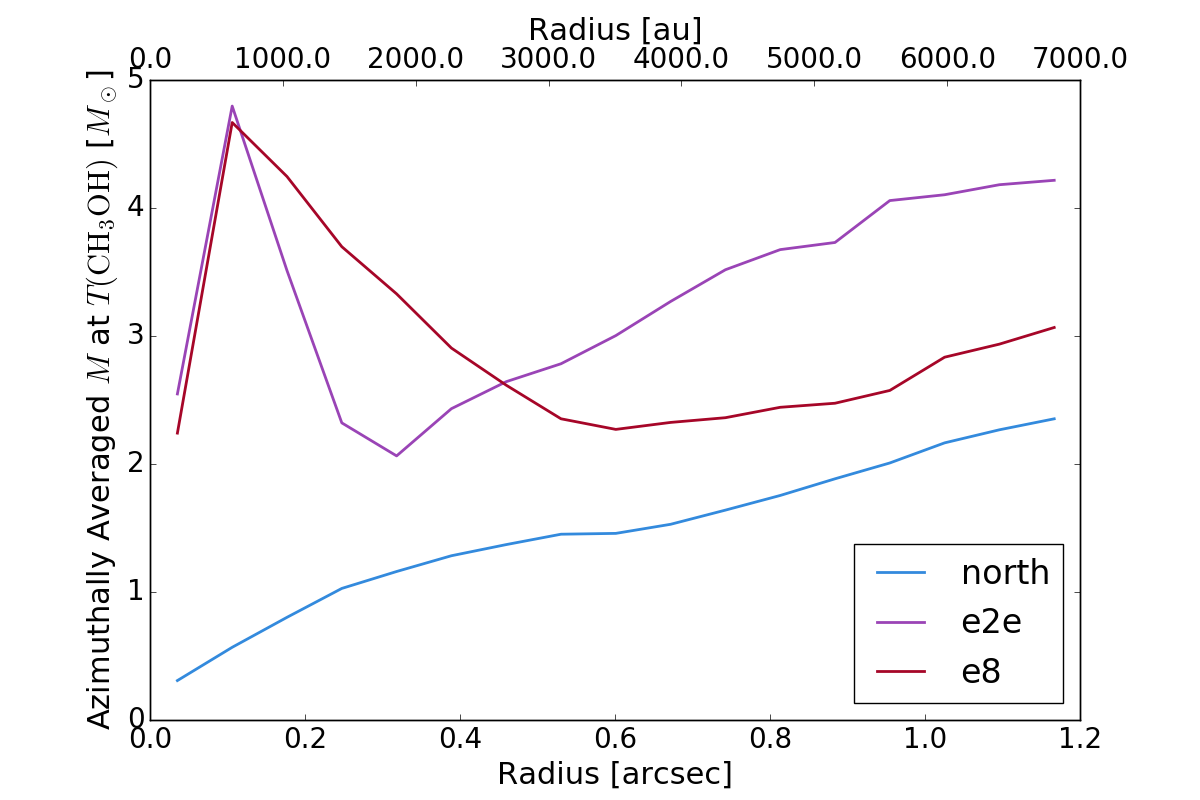
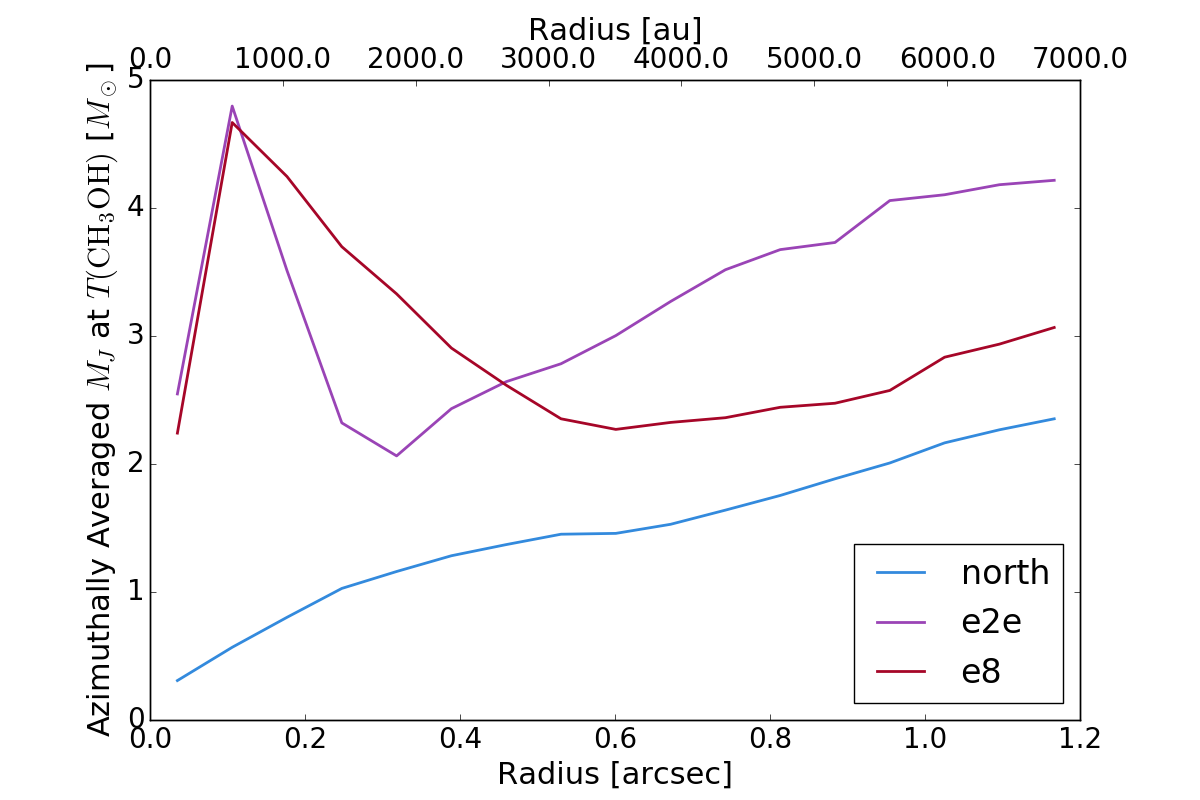
replacement figure for Jeans analysis

Changed region(s): [[0.0617, 0.125, 0.0925, 0.9375], [0.0617, 0.0625, 0.0925, 0.0938]]

diff --git a/analysis/radial_profiles.py b/analysis/radial_profiles.py
@@ -138,7 +138,7 @@ def make_rprof(regions, ploteach=False):
         nplots = 0
 
     pl.matplotlib.rc_file('pubfiguresrc')
-    for jj in range(nplots*3+1, nplots*3+14+1):
+    for jj in range(nplots*3+1, nplots*3+15+1):
         pl.figure(jj).clf()
     # $ find ~/work/w51/alma/FITS/ -samefile ~/work/w51/alma/FITS/W51_te_continuum_best.fits
     # /Users/adam/work/w51/alma/FITS//12m/continuum/selfcal_allspw_selfcal_3_mfs_deeper.image.pbcor.fits
@@ -399,30 +399,40 @@ def make_rprof(regions, ploteach=False):
         mass_map = (cutout.data * masscalc.mass_conversion_factor(TK=temcutout.data) ).to(u.M_sun)
         yy,xx = np.indices(cutout.data.shape)
         rr_map = ((xx-cutout.data.shape[1]/2.)**2 + (yy-cutout.data.shape[0]/2.)**2)
-        mass_profile = (cumul_rprof * masscalc.mass_conversion_factor(TK=tem_rprof) / u.beam).to(u.M_sun)
+        mass_profile = (cumul_rprof *
+                        masscalc.mass_conversion_factor(TK=tem_rprof) /
+                        u.beam).to(u.M_sun)
         density_profile = (mass_profile / (4/3.*np.pi*radii**3) /
                            (2.8*u.Da)).to(u.cm**-3)
 
-        azimuthal_average_mass = azimuthal_average_flux * masscalc.mass_conversion_factor(TK=tem_rprof) / u.beam
+        azimuthal_average_mass = (azimuthal_average_flux *
+                                  masscalc.mass_conversion_factor(TK=tem_rprof)
+                                  / u.beam)
 
         # how accurate is this?  We are measuring mass in cylindrical annuli,
         # but we are assuming the underlying source structure is spherical
         # See Cores.ipynb (in notes/, not in this repo) for a detailed
         # analysis...
         azimuthal_average_density = (azimuthal_average_mass * sqdiffbins_pix /
-                                    (2.8*u.Da) /
-                                    (4/3.*np.pi*(cudiffbins_cm))).to(u.cm**-3)
+                                     (2.8*u.Da) /
+                                     (4/3.*np.pi*(cudiffbins_cm))).to(u.cm**-3)
 
 
         # this is not a good approximation for the spherial density profile...
         # see cores.ipynb.
         # Really should be this number +1 (so see the +1 below)
         # Also, negatived...
-        density_alpha = 1-((np.log(density_profile[1:].value) -
-                            np.log(density_profile[:-1].value)) /
-                           (np.log(angular_radii[1:]) -
-                            np.log(angular_radii[:-1]))
-                          )
+        density_alpha_ = 1-((np.log(density_profile[1:].value) -
+                             np.log(density_profile[:-1].value)) /
+                            (np.log(angular_radii[1:]) -
+                             np.log(angular_radii[:-1]))
+                           )
+        # from cores.ipynb, this actually gets (close to) the right answer
+        density_alpha = -((np.log(azimuthal_average_density[1:].value) -
+                           np.log(azimuthal_average_density[:-1].value)) /
+                          (np.log(angular_radii[1:]) -
+                           np.log(angular_radii[:-1]))
+                         )
 
         c_s = ((constants.k_B * tem_rprof*u.K / (2.4*u.Da))**0.5).to(u.km/u.s)
         azimuthal_average_MJ = (np.pi/6. * c_s**3 /
@@ -449,7 +459,7 @@ def make_rprof(regions, ploteach=False):
         # WRONG         alpha=0.75, color=line.get_color())
         #pl.plot(rr_map*pixscale*3600., mass_map, 'k.', alpha=0.25)
         pl.axis([0,1.2,0.0,5.0])
-        pl.ylabel("Azimuthally Averaged $M$ at $T(\\mathrm{CH}_3\\mathrm{OH})$ [$M_\\odot$]")
+        pl.ylabel("Azimuthally Averaged $M_J$ at $T(\\mathrm{CH}_3\\mathrm{OH})$ [$M_\\odot$]")
         pl.xlabel("Radius [arcsec]")
         if len(names) < 5:
             pl.legend(loc='best')
@@ -556,7 +566,9 @@ def make_rprof(regions, ploteach=False):
 
 
         pl.figure(nplots*3+11)
-        pl.plot((angular_radii[1:]+angular_radii[:-1])/2., density_alpha)
+        line, = pl.plot((angular_radii[1:]+angular_radii[:-1])/2., density_alpha)
+        pl.plot((angular_radii[1:]+angular_radii[:-1])/2., density_alpha_, '--',
+                color=line.get_color(), alpha=0.5)
         pl.xlabel("Radius [as]")
         pl.ylabel("Density Profile Exponent $\\kappa_\\rho$")
 
@@ -678,6 +690,28 @@ def make_rprof(regions, ploteach=False):
             ax.legend(handles, labels, loc='center left', bbox_to_anchor=(1, 0.5))
 
 
+        pl.figure(nplots*3+15)
+        pl.subplot(2,2,1)
+        pl.semilogy(angular_radii, azimuthal_average_density, label=name)
+        pl.ylabel("Azimuthally Averaged Density at T=T(CH$_3$OH) [cm$^{-3}$]")
+        pl.subplot(2,2,3)
+        pl.semilogy(angular_radii, density_profile, label=name)
+        pl.ylabel("Cumulative Average Density at T=T(CH$_3$OH) [cm$^{-3}$]")
+        pl.xlabel("Radius [arcsec]")
+        pl.subplot(2,2,2)
+        pl.plot(azimuthal_average_density, density_profile, label=name)
+        pl.plot(sorted(azimuthal_average_density.value),
+                sorted(azimuthal_average_density.value), 'k--')
+        pl.xlabel("Azimuthally Averaged Density at T=T(CH$_3$OH) [cm$^{-3}$]",
+                  fontsize=12)
+        pl.ylabel("Cumulative Average Density at T=T(CH$_3$OH) [cm$^{-3}$]",
+                  fontsize=12)
+        pl.subplot(2,2,4)
+        pl.ylabel("Azimuthal / Cumulative", fontsize=12)
+        pl.plot(angular_radii, azimuthal_average_density / density_profile,
+                label=name)
+        #pl.plot(angular_radii, [1.0] * len(angular_radii), 'k--')
+        pl.xlabel("Radius [arcsec]")
 
     return locals()
 
@@ -699,6 +733,7 @@ pl.figure(nplots*3+10).savefig(paths.fpath("azimuthalaverage_radial_rj_of_TCH3OH
 pl.figure(nplots*3+11).savefig(paths.fpath("radialprofileexponent_of_TCH3OH_massivecores.png"))
 pl.figure(nplots*3+13).savefig(paths.fpath("cumulative_MJ_of_TCH3OH_massivecores.png"))
 pl.figure(nplots*3+14).savefig(paths.fpath("azimuthalaverage_radial_mj_and_mbar_of_TCH3OH_massivecores.png"))
+pl.figure(nplots*3+15).savefig(paths.fpath("compare_cumulative_to_average_density.png"))
 
 fig = pl.figure(nplots*3+8)
 ax = fig.axes[0]

diff --git a/cores_and_outflows/cores_and_outflows.tex b/cores_and_outflows/cores_and_outflows.tex
@@ -828,14 +828,14 @@ Section \ref{sec:methanol}.}
 {fig:hmradprof}{1}{8cm}
 
 
-\Figure{figures/radialprofileexponent_of_TCH3OH_massivecores.png}
-{
-The radial mass profile exponent $\kappa_\rho$ as a function of radius.  The
-`fiducial value' used in the \citet{McKee2003a} model is $\kappa_\rho=1.5$, but
-importantly it is \emph{constant} at $t=0$.  A non-constant $\kappa_\rho$
-indicates that collapse is not self-similar, and the flattening toward smaller
-radii suggests that it is slower than freefall collapse.}
-{fig:kapparho}{1}{12cm}
+% \Figure{figures/radialprofileexponent_of_TCH3OH_massivecores.png}
+% {
+% The radial mass profile exponent $\kappa_\rho$ as a function of radius.  The
+% `fiducial value' used in the \citet{McKee2003a} model is $\kappa_\rho=1.5$, but
+% importantly it is \emph{constant} at $t=0$.  A non-constant $\kappa_\rho$
+% indicates that collapse is not self-similar, and the flattening toward smaller
+% radii suggests that it is slower than freefall collapse.}
+% {fig:kapparho}{1}{12cm}
 
 
 
@@ -1231,24 +1231,26 @@ spread out in W51.
 % The main sources all have the majority of their flux in relatively smooth
 % structures.
 
-\FigureTwo
-{figures/azimuthalaverage_radial_mj_of_TCH3OH_massivecores.png}
-{figures/azimuthalaverage_radial_rj_of_TCH3OH_massivecores.png}
-{The azimuthally averaged (a) Jeans mass and (b) Jeans length surrounding the
+\Figure
+{figures/azimuthalaverage_radial_mj_and_mbar_of_TCH3OH_massivecores.png}
+%{figures/azimuthalaverage_radial_rj_of_TCH3OH_massivecores.png}
+{The azimuthally averaged Jeans mass surrounding the
 three most massive cores.  We used the \methanol temperature from
 \ref{sec:methanol}, Figure \ref{fig:hmradprof}b in both the Jeans mass
 calculation and the dust-based mass determination.
 The density used for the mass calculation is assumed to be distributed
-over spherical shells.
+over spherical shells.  The dashed lines show the measured mean mass per
+$\sim1000$ AU beam at each radius.  Since these masses are lower than
+the local Jeans mass, the gas is stable against fragmentation.
 %The dashed lines show the average mass per $\sim1000$ AU
 %beam 
 %The Jeans mass decreases
 %toward the center at least in part because of the density increase, while the
 %temperature only rises slowly.  
-In (b), the dashed black line shows the $R_J=R$ line.  When $R_J > R$,
-the gas is on average stable against fragmentation on the measured length
-scale.  Since the medium is clearly \emph{not} isothermal or uniform density,
-though, this only shows a rough approximation of the stability.
+%In (b), the dashed black line shows the $R_J=R$ line.  When $R_J > R$,
+%the gas is on average stable against fragmentation on the measured length
+%scale.  Since the medium is clearly \emph{not} isothermal or uniform density,
+%though, this only shows a rough approximation of the stability.
 }
 {fig:mjeans}{1}{10cm}
 
@@ -1338,15 +1340,22 @@ It is not clear whether the mass accumulated around the most massive protostars
 at present came from large radii, as in \citet{Smith2009f}, but it is certainly
 possible.
 
+% TODO: consider dropping kapparho discussion entirely; the measurements are
+% pretty damned unreliable.
 If the turbulent core model is used to describe these sources, a few obvious
 issues arise.  First, the core structure is not a simple power-law with
-$\kappa_\rho=1.5$, as usually assumed \citep{McKee2003a,Zhang2011a}.  Figure
-\ref{fig:kapparho} shows instead that the core is internally flatter and
-externally steeper than this assumption.  Of course, the observations do not
-correspond to the initial conditions, so this comparison could more fairly be
-made with a later `snapshot' from those models.  Second, the more sophisticated
-models of evolution from an initial turbulent core suggest that most of the
-stellar (and accretion) radiation should escape via growing outflow cavities
+$\kappa_\rho=1.5$, as usually assumed
+\citep{McKee2003a,Zhang2011a}\footnote{The parameter $\kappa_\rho$ governs the
+density profile under an assumed power-law configuration, $\rho(r) =
+r^{-\kappa_{\rho}}$}; instead we find that the profile varies across the core,
+steepening from the center to the exterior.
+% Figure \ref{fig:kapparho} shows instead that the core is
+% overall steeper. 
+Of course, the observations do not correspond to the initial
+conditions, so this comparison could more fairly be made with a later
+`snapshot' from those models.  Second, the more sophisticated models of
+evolution from an initial turbulent core suggest that most of the stellar (and
+accretion) radiation should escape via growing outflow cavities
 \citep{Zhang2011a,Zhang2013h,Zhang2014e}.  The circular symmetry seen in the
 hot core around e2e and its lack of correspondence with the outflowing material
 (Figure \ref{fig:outflowonmethanol}) indicates that a large fraction of the
@@ -2064,6 +2073,8 @@ These classifications are set in the `Categories' column of Table
 \ref{tab:photometry}.  They serve as a broad guideline for further
 analysis.   
 
+
+\section{Intersection of cylindrical and spherical annuli in a power-law density profile}
 
 
 \end{document}
